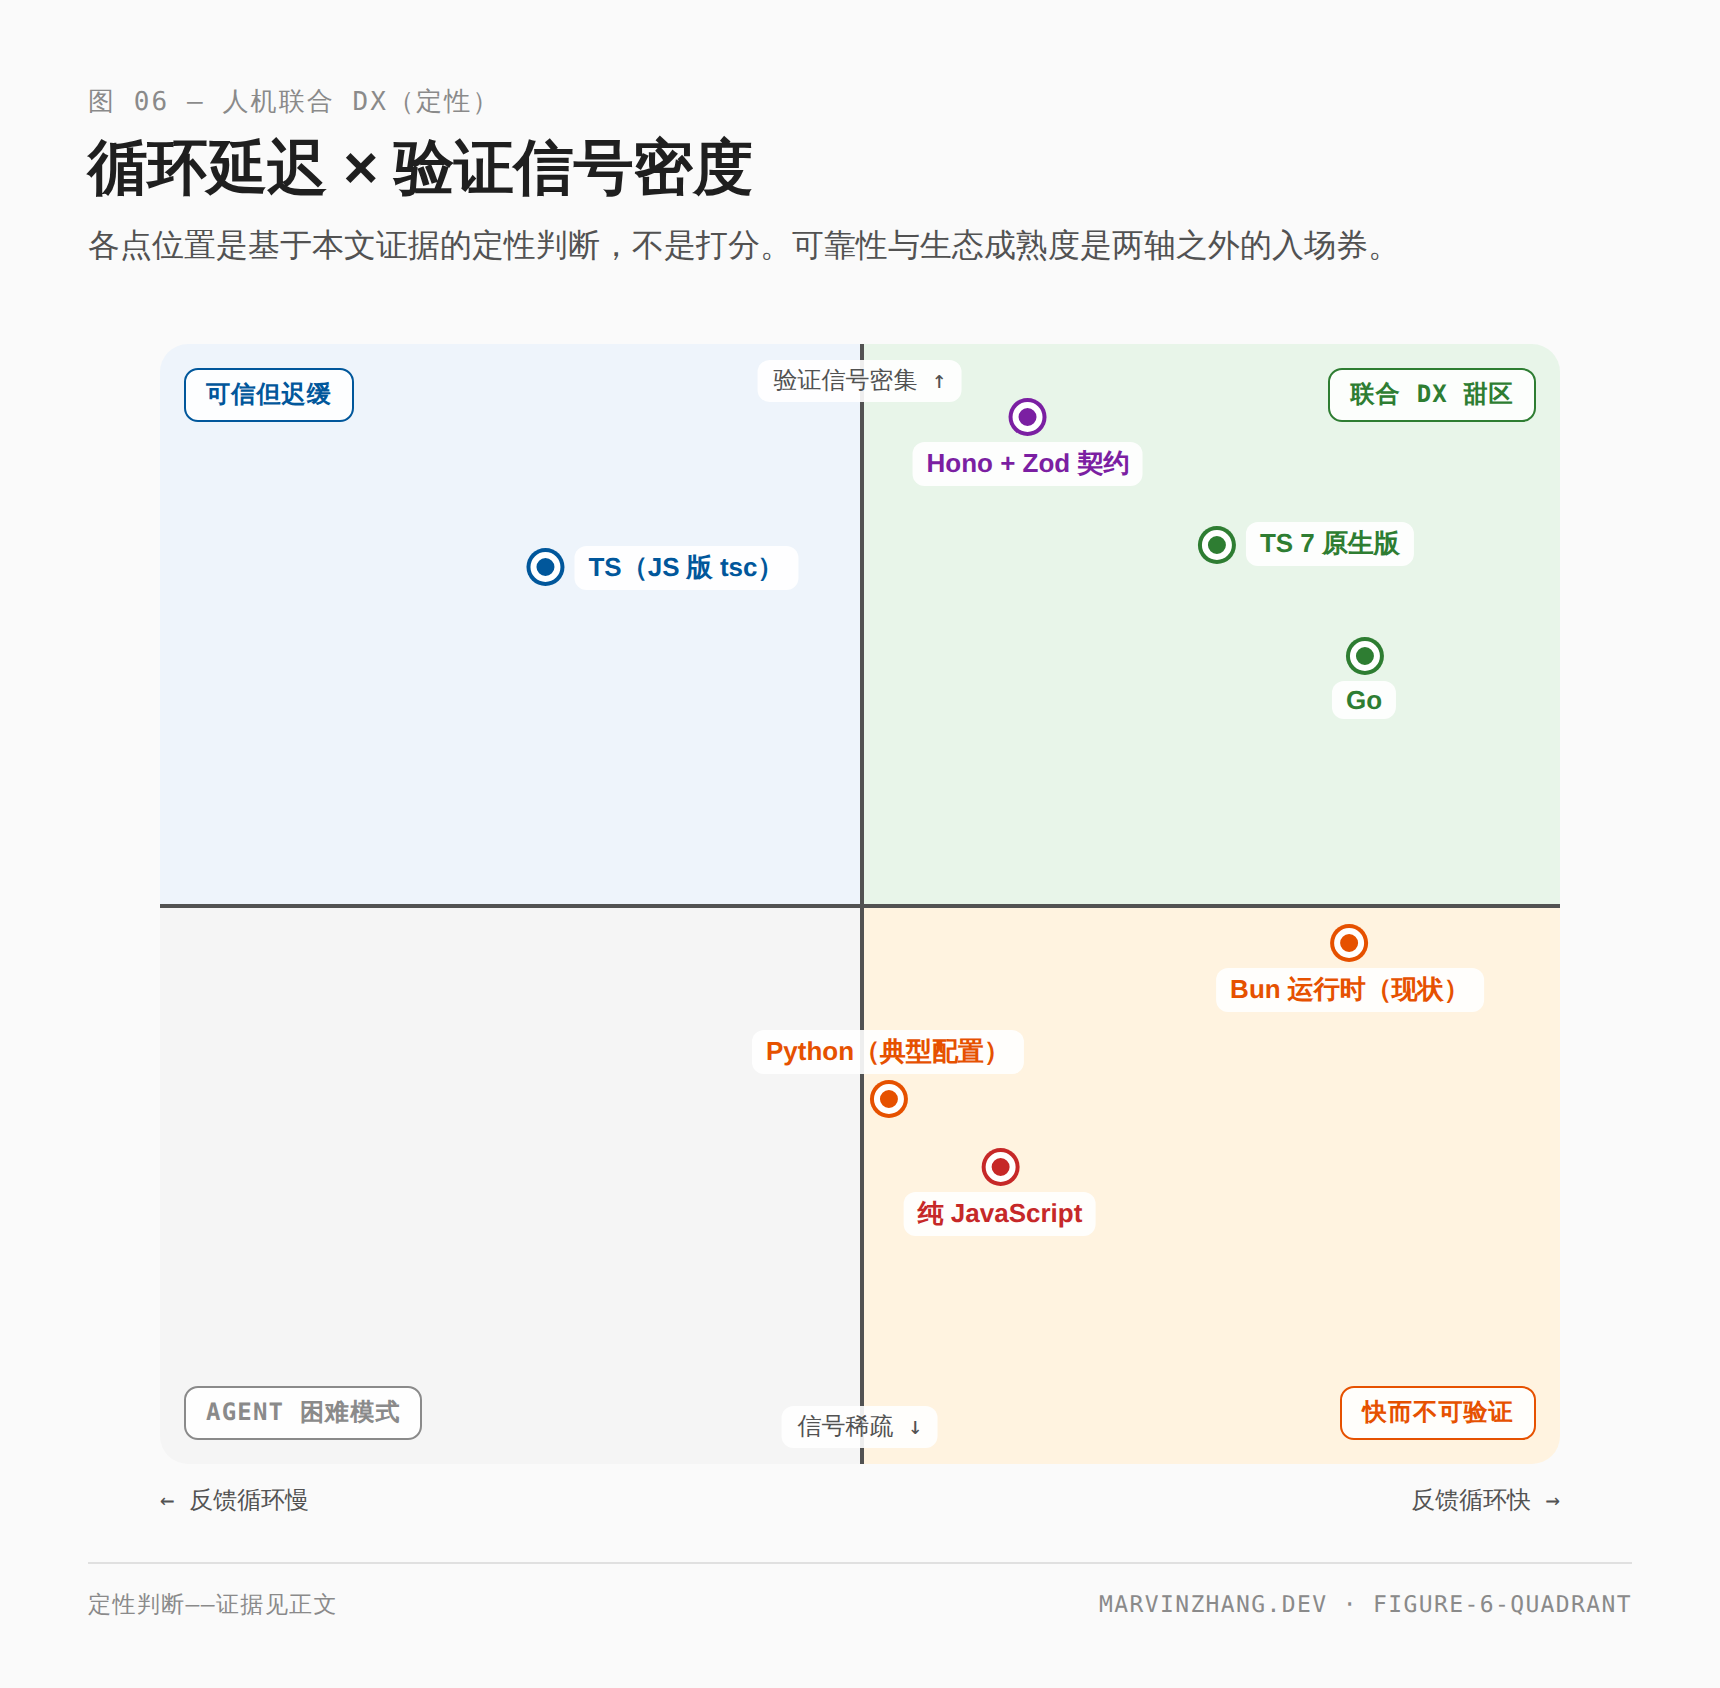
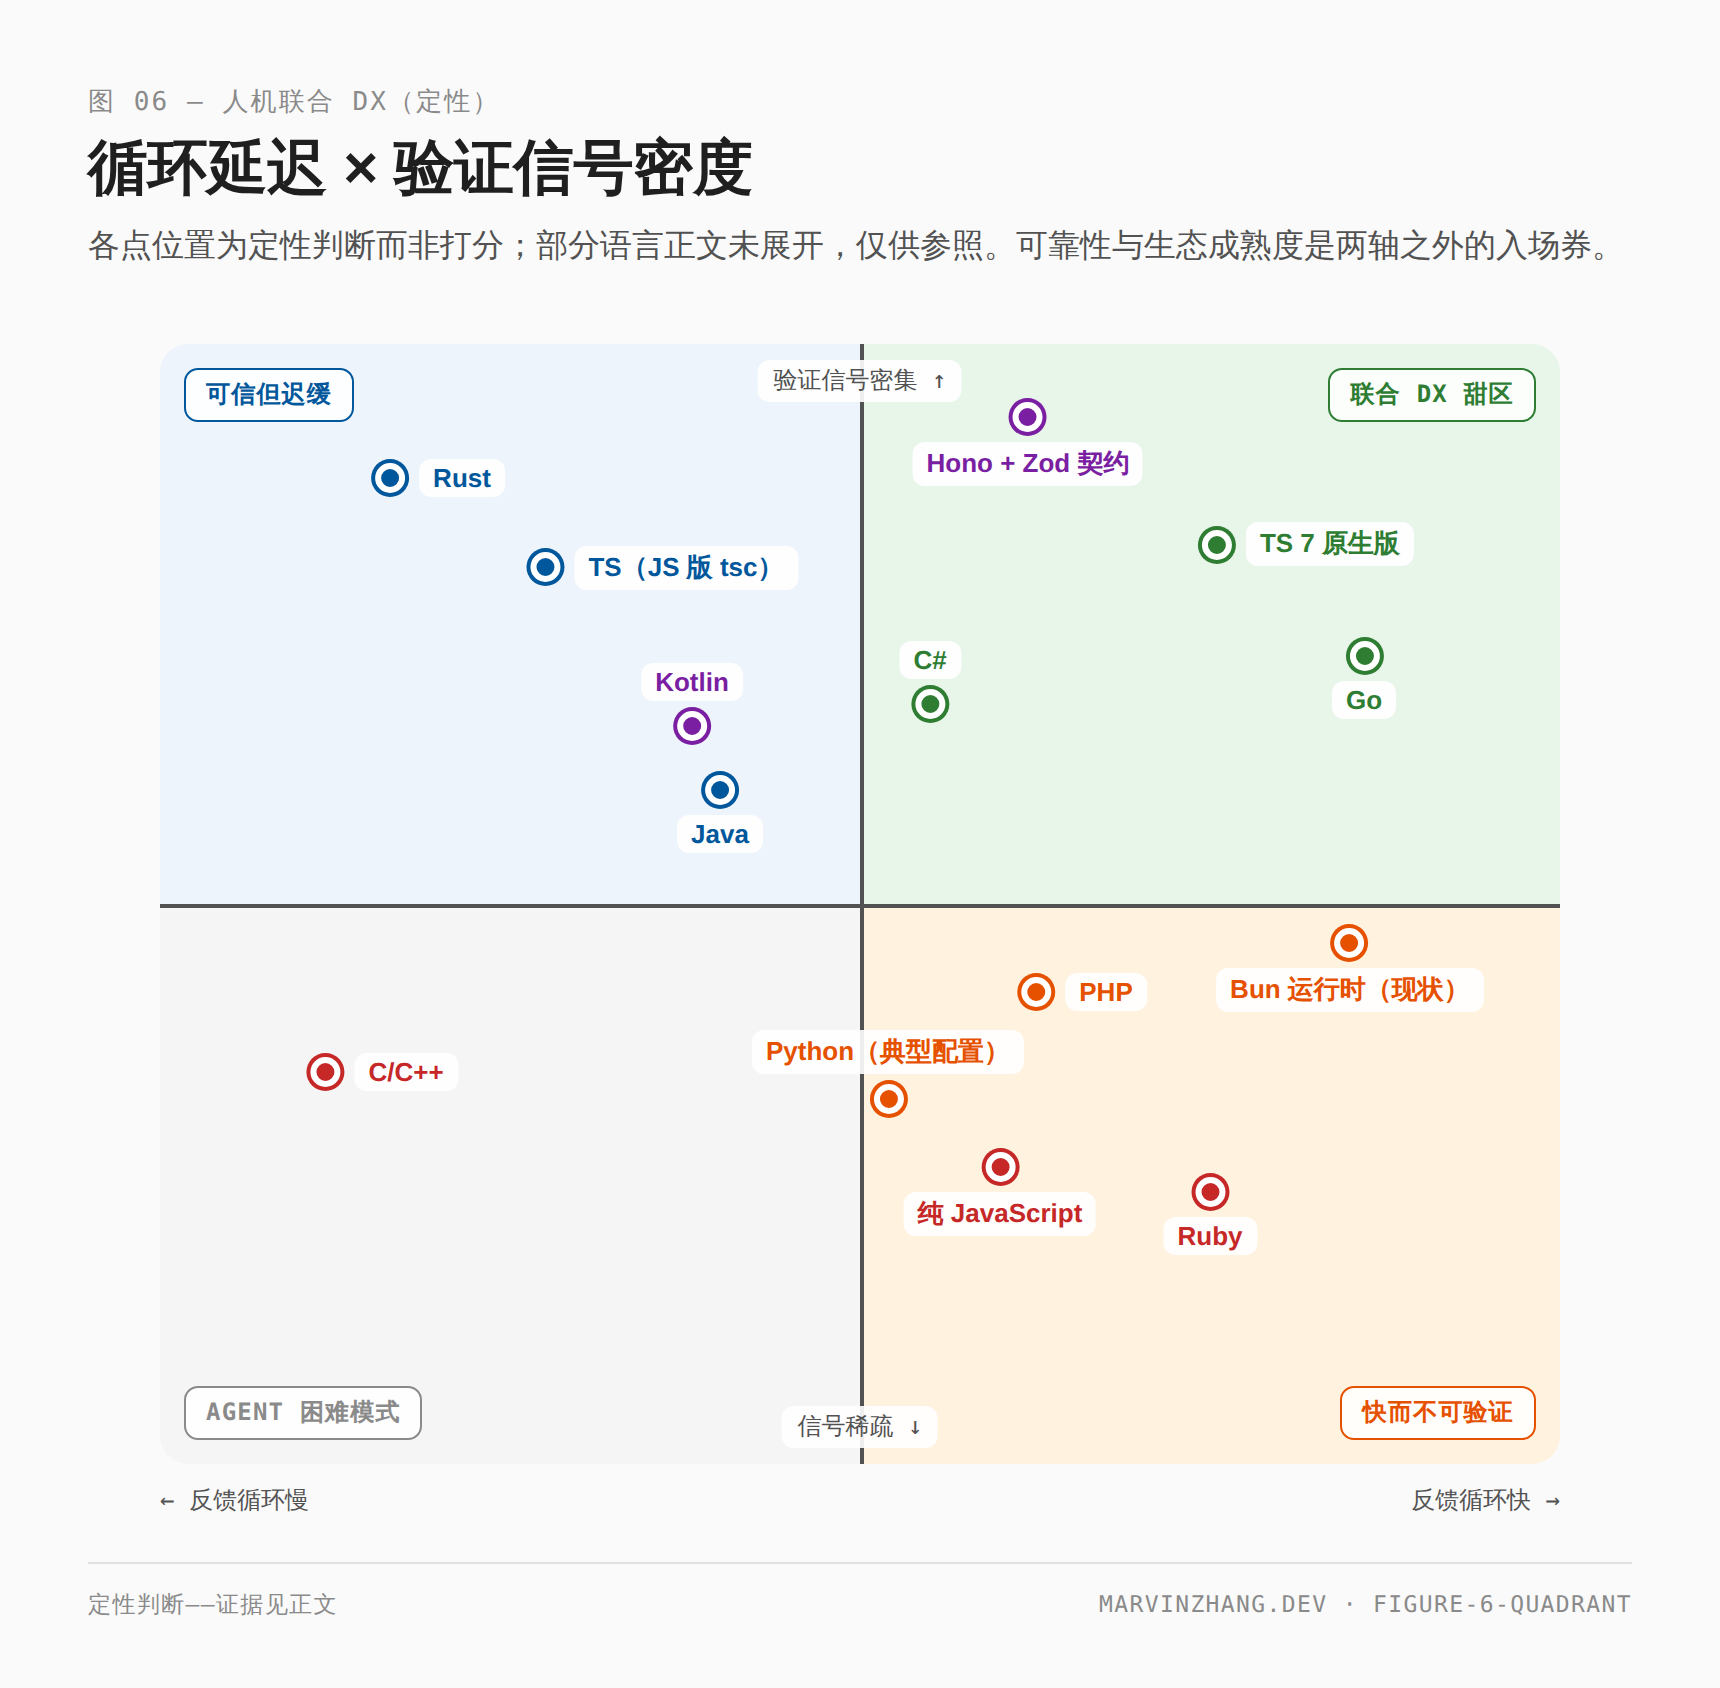
Quadrant chart: add Rust, Java, C#, C/C++, PHP, Ruby, Kotlin as researched reference points
- Placements grounded in a rankings/typing research pass (RedMonk 2026-01, Octoverse 2025, SO 2025, TIOBE 2026-07; PHPStan/Sorbet adoption, Kotlin K2): Rust dense-but-slow, Java/Kotlin/C# mid-plane, PHP/Ruby fast-and-sparse, C/C++ in agent hard mode
- Swift/Dart deliberately excluded as mobile-first stacks per research recommendation
- Figure subtitle now notes reference-only languages; alt texts updated in both locales

Claude-Session: https://claude.ai/code/session_015AgqLUuUsNDKkaPpExJqon

diff --git a/drafts/2026-07-06-web-stack-selection-in-the-agent-era/figures/figure-6-quadrant.en.html b/drafts/2026-07-06-web-stack-selection-in-the-agent-era/figures/figure-6-quadrant.en.html
@@ -78,7 +78,7 @@
 <div class="header">
   <div class="figno">Figure 06 — Joint DX, qualitatively</div>
   <h1>Loop latency × verification signal density</h1>
-  <div class="subtitle">Placements are qualitative judgments from this article's evidence — not scores. Reliability and ecosystem maturity remain entry tickets outside both axes.</div>
+  <div class="subtitle">Qualitative placements, not scores — some languages are shown for reference without full treatment in the body. Reliability and ecosystem maturity remain entry tickets outside both axes.</div>
 </div>
 
     <div class="plotwrap">
@@ -91,7 +91,7 @@
       <div class="qlabel ql4">Fast but unverifiable</div>
       <div class="ycap top">dense verification signals ↑</div>
       <div class="ycap bot">sparse signals ↓</div>
-      <div class="pt" style="left:36.0%;top:19.999999999999996%;color:#01579b;text-align:center"><div style="display:flex;align-items:center;gap:7px"><div class="dot" style="margin:0"></div><div class="lbl" style="margin-top:0">TS on JS-based tsc</div></div></div><div class="pt" style="left:82.0%;top:18.000000000000004%;color:#2e7d32;text-align:center"><div style="display:flex;align-items:center;gap:7px"><div class="dot" style="margin:0"></div><div class="lbl" style="margin-top:0">TS 7 native</div></div></div><div class="pt" style="left:86.0%;top:30.000000000000004%;color:#2e7d32;text-align:center"><div class="dot"></div><div class="lbl">Go</div></div><div class="pt" style="left:62.0%;top:8.999999999999996%;color:#7b1fa2;text-align:center"><div class="dot"></div><div class="lbl">Hono + Zod contract</div></div><div class="pt" style="left:60.0%;top:76.0%;color:#c62828;text-align:center"><div class="dot"></div><div class="lbl">Plain JavaScript</div></div><div class="pt" style="left:52.0%;top:65.0%;color:#e65100;text-align:center"><div class="lbl" style="margin-top:0;margin-bottom:5px">Python, typical setup</div><div class="dot"></div></div><div class="pt" style="left:85.0%;top:56.00000000000001%;color:#e65100;text-align:center"><div class="dot"></div><div class="lbl">Bun runtime, today</div></div>
+      <div class="pt" style="left:66.0%;top:58.00000000000001%;color:#e65100;text-align:center"><div style="display:flex;align-items:center;gap:7px"><div class="dot" style="margin:0"></div><div class="lbl" style="margin-top:0">PHP</div></div></div><div class="pt" style="left:75.0%;top:78.0%;color:#c62828;text-align:center"><div class="dot"></div><div class="lbl">Ruby</div></div><div class="pt" style="left:38.0%;top:31.999999999999996%;color:#7b1fa2;text-align:center"><div class="lbl" style="margin-top:0;margin-bottom:5px">Kotlin</div><div class="dot"></div></div><div class="pt" style="left:20.0%;top:12.0%;color:#01579b;text-align:center"><div style="display:flex;align-items:center;gap:7px"><div class="dot" style="margin:0"></div><div class="lbl" style="margin-top:0">Rust</div></div></div><div class="pt" style="left:40.0%;top:42.00000000000001%;color:#01579b;text-align:center"><div class="dot"></div><div class="lbl">Java</div></div><div class="pt" style="left:55.00000000000001%;top:30.000000000000004%;color:#2e7d32;text-align:center"><div class="lbl" style="margin-top:0;margin-bottom:5px">C#</div><div class="dot"></div></div><div class="pt" style="left:16.0%;top:65.0%;color:#c62828;text-align:center"><div style="display:flex;align-items:center;gap:7px"><div class="dot" style="margin:0"></div><div class="lbl" style="margin-top:0">C/C++</div></div></div><div class="pt" style="left:36.0%;top:19.999999999999996%;color:#01579b;text-align:center"><div style="display:flex;align-items:center;gap:7px"><div class="dot" style="margin:0"></div><div class="lbl" style="margin-top:0">TS on JS-based tsc</div></div></div><div class="pt" style="left:82.0%;top:18.000000000000004%;color:#2e7d32;text-align:center"><div style="display:flex;align-items:center;gap:7px"><div class="dot" style="margin:0"></div><div class="lbl" style="margin-top:0">TS 7 native</div></div></div><div class="pt" style="left:86.0%;top:30.000000000000004%;color:#2e7d32;text-align:center"><div class="dot"></div><div class="lbl">Go</div></div><div class="pt" style="left:62.0%;top:8.999999999999996%;color:#7b1fa2;text-align:center"><div class="dot"></div><div class="lbl">Hono + Zod contract</div></div><div class="pt" style="left:60.0%;top:76.0%;color:#c62828;text-align:center"><div class="dot"></div><div class="lbl">Plain JavaScript</div></div><div class="pt" style="left:52.0%;top:65.0%;color:#e65100;text-align:center"><div class="lbl" style="margin-top:0;margin-bottom:5px">Python, typical setup</div><div class="dot"></div></div><div class="pt" style="left:85.0%;top:56.00000000000001%;color:#e65100;text-align:center"><div class="dot"></div><div class="lbl">Bun runtime, today</div></div>
     </div>
     </div>
     <div class="axcap"><div>← slower feedback loop</div><div>faster feedback loop →</div></div>

diff --git a/drafts/2026-07-06-web-stack-selection-in-the-agent-era/figures/figure-6-quadrant.zh.html b/drafts/2026-07-06-web-stack-selection-in-the-agent-era/figures/figure-6-quadrant.zh.html
@@ -78,7 +78,7 @@
 <div class="header">
   <div class="figno">图 06 — 人机联合 DX（定性）</div>
   <h1>循环延迟 × 验证信号密度</h1>
-  <div class="subtitle">各点位置是基于本文证据的定性判断，不是打分。可靠性与生态成熟度是两轴之外的入场券。</div>
+  <div class="subtitle">各点位置为定性判断而非打分；部分语言正文未展开，仅供参照。可靠性与生态成熟度是两轴之外的入场券。</div>
 </div>
 
     <div class="plotwrap">
@@ -91,7 +91,7 @@
       <div class="qlabel ql4">快而不可验证</div>
       <div class="ycap top">验证信号密集 ↑</div>
       <div class="ycap bot">信号稀疏 ↓</div>
-      <div class="pt" style="left:36.0%;top:19.999999999999996%;color:#01579b;text-align:center"><div style="display:flex;align-items:center;gap:7px"><div class="dot" style="margin:0"></div><div class="lbl" style="margin-top:0">TS（JS 版 tsc）</div></div></div><div class="pt" style="left:82.0%;top:18.000000000000004%;color:#2e7d32;text-align:center"><div style="display:flex;align-items:center;gap:7px"><div class="dot" style="margin:0"></div><div class="lbl" style="margin-top:0">TS 7 原生版</div></div></div><div class="pt" style="left:86.0%;top:30.000000000000004%;color:#2e7d32;text-align:center"><div class="dot"></div><div class="lbl">Go</div></div><div class="pt" style="left:62.0%;top:8.999999999999996%;color:#7b1fa2;text-align:center"><div class="dot"></div><div class="lbl">Hono + Zod 契约</div></div><div class="pt" style="left:60.0%;top:76.0%;color:#c62828;text-align:center"><div class="dot"></div><div class="lbl">纯 JavaScript</div></div><div class="pt" style="left:52.0%;top:65.0%;color:#e65100;text-align:center"><div class="lbl" style="margin-top:0;margin-bottom:5px">Python（典型配置）</div><div class="dot"></div></div><div class="pt" style="left:85.0%;top:56.00000000000001%;color:#e65100;text-align:center"><div class="dot"></div><div class="lbl">Bun 运行时（现状）</div></div>
+      <div class="pt" style="left:66.0%;top:58.00000000000001%;color:#e65100;text-align:center"><div style="display:flex;align-items:center;gap:7px"><div class="dot" style="margin:0"></div><div class="lbl" style="margin-top:0">PHP</div></div></div><div class="pt" style="left:75.0%;top:78.0%;color:#c62828;text-align:center"><div class="dot"></div><div class="lbl">Ruby</div></div><div class="pt" style="left:38.0%;top:31.999999999999996%;color:#7b1fa2;text-align:center"><div class="lbl" style="margin-top:0;margin-bottom:5px">Kotlin</div><div class="dot"></div></div><div class="pt" style="left:20.0%;top:12.0%;color:#01579b;text-align:center"><div style="display:flex;align-items:center;gap:7px"><div class="dot" style="margin:0"></div><div class="lbl" style="margin-top:0">Rust</div></div></div><div class="pt" style="left:40.0%;top:42.00000000000001%;color:#01579b;text-align:center"><div class="dot"></div><div class="lbl">Java</div></div><div class="pt" style="left:55.00000000000001%;top:30.000000000000004%;color:#2e7d32;text-align:center"><div class="lbl" style="margin-top:0;margin-bottom:5px">C#</div><div class="dot"></div></div><div class="pt" style="left:16.0%;top:65.0%;color:#c62828;text-align:center"><div style="display:flex;align-items:center;gap:7px"><div class="dot" style="margin:0"></div><div class="lbl" style="margin-top:0">C/C++</div></div></div><div class="pt" style="left:36.0%;top:19.999999999999996%;color:#01579b;text-align:center"><div style="display:flex;align-items:center;gap:7px"><div class="dot" style="margin:0"></div><div class="lbl" style="margin-top:0">TS（JS 版 tsc）</div></div></div><div class="pt" style="left:82.0%;top:18.000000000000004%;color:#2e7d32;text-align:center"><div style="display:flex;align-items:center;gap:7px"><div class="dot" style="margin:0"></div><div class="lbl" style="margin-top:0">TS 7 原生版</div></div></div><div class="pt" style="left:86.0%;top:30.000000000000004%;color:#2e7d32;text-align:center"><div class="dot"></div><div class="lbl">Go</div></div><div class="pt" style="left:62.0%;top:8.999999999999996%;color:#7b1fa2;text-align:center"><div class="dot"></div><div class="lbl">Hono + Zod 契约</div></div><div class="pt" style="left:60.0%;top:76.0%;color:#c62828;text-align:center"><div class="dot"></div><div class="lbl">纯 JavaScript</div></div><div class="pt" style="left:52.0%;top:65.0%;color:#e65100;text-align:center"><div class="lbl" style="margin-top:0;margin-bottom:5px">Python（典型配置）</div><div class="dot"></div></div><div class="pt" style="left:85.0%;top:56.00000000000001%;color:#e65100;text-align:center"><div class="dot"></div><div class="lbl">Bun 运行时（现状）</div></div>
     </div>
     </div>
     <div class="axcap"><div>← 反馈循环慢</div><div>反馈循环快 →</div></div>

diff --git a/drafts/2026-07-06-web-stack-selection-in-the-agent-era/figures/build_figures.py b/drafts/2026-07-06-web-stack-selection-in-the-agent-era/figures/build_figures.py
@@ -503,11 +503,18 @@ F5 = {
   title="Figure 6 — A two-axis selection frame",
   figno="Figure 06 — Joint DX, qualitatively",
   h1="Loop latency × verification signal density",
-  subtitle="Placements are qualitative judgments from this article's evidence — not scores. Reliability and ecosystem maturity remain entry tickets outside both axes.",
+  subtitle="Qualitative placements, not scores — some languages are shown for reference without full treatment in the body. Reliability and ecosystem maturity remain entry tickets outside both axes.",
   quads=("Joint-DX sweet spot", "Trustworthy but sluggish", "Hard mode for agents", "Fast but unverifiable"),
   xl=("slower feedback loop", "faster feedback loop"),
   yl=("dense verification signals ↑", "sparse signals ↓"),
   pts=[
+   ("PHP", 0.66, 0.42, "#e65100", "right"),
+   ("Ruby", 0.75, 0.22, "#c62828", "bottom"),
+   ("Kotlin", 0.38, 0.68, "#7b1fa2", "top"),
+   ("Rust", 0.20, 0.88, "#01579b", "right"),
+   ("Java", 0.40, 0.58, "#01579b", "bottom"),
+   ("C#", 0.55, 0.70, "#2e7d32", "top"),
+   ("C/C++", 0.16, 0.35, "#c62828", "right"),
    ("TS on JS-based tsc", 0.36, 0.80, "#01579b", "right"),
    ("TS 7 native", 0.82, 0.82, "#2e7d32", "right"),
    ("Go", 0.86, 0.70, "#2e7d32", "bottom"),
@@ -522,11 +529,18 @@ F5 = {
   title="图 6 — 两轴选型框架",
   figno="图 06 — 人机联合 DX（定性）",
   h1="循环延迟 × 验证信号密度",
-  subtitle="各点位置是基于本文证据的定性判断，不是打分。可靠性与生态成熟度是两轴之外的入场券。",
+  subtitle="各点位置为定性判断而非打分；部分语言正文未展开，仅供参照。可靠性与生态成熟度是两轴之外的入场券。",
   quads=("联合 DX 甜区", "可信但迟缓", "agent 困难模式", "快而不可验证"),
   xl=("反馈循环慢", "反馈循环快"),
   yl=("验证信号密集 ↑", "信号稀疏 ↓"),
   pts=[
+   ("PHP", 0.66, 0.42, "#e65100", "right"),
+   ("Ruby", 0.75, 0.22, "#c62828", "bottom"),
+   ("Kotlin", 0.38, 0.68, "#7b1fa2", "top"),
+   ("Rust", 0.20, 0.88, "#01579b", "right"),
+   ("Java", 0.40, 0.58, "#01579b", "bottom"),
+   ("C#", 0.55, 0.70, "#2e7d32", "top"),
+   ("C/C++", 0.16, 0.35, "#c62828", "right"),
    ("TS（JS 版 tsc）", 0.36, 0.80, "#01579b", "right"),
    ("TS 7 原生版", 0.82, 0.82, "#2e7d32", "right"),
    ("Go", 0.86, 0.70, "#2e7d32", "bottom"),